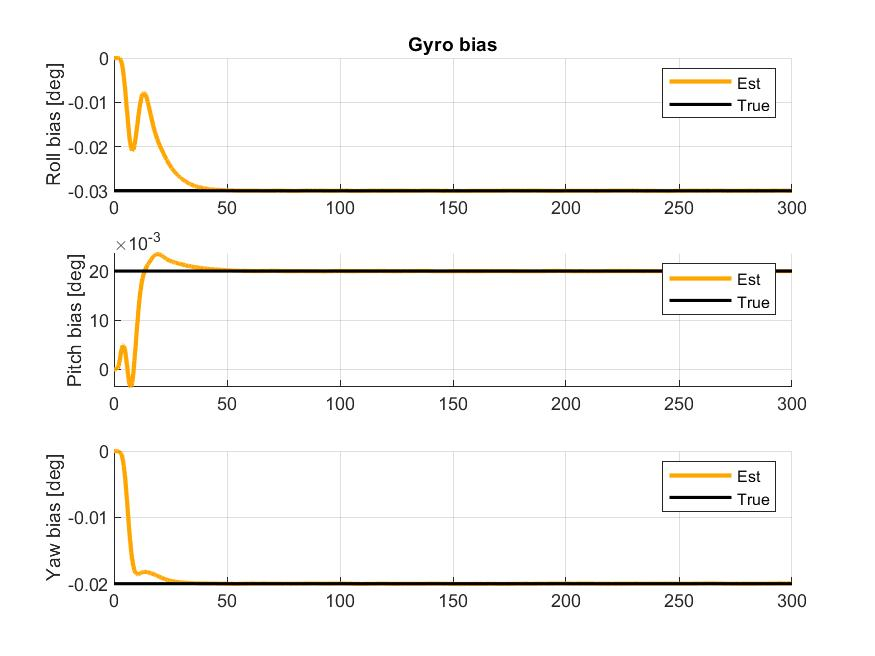
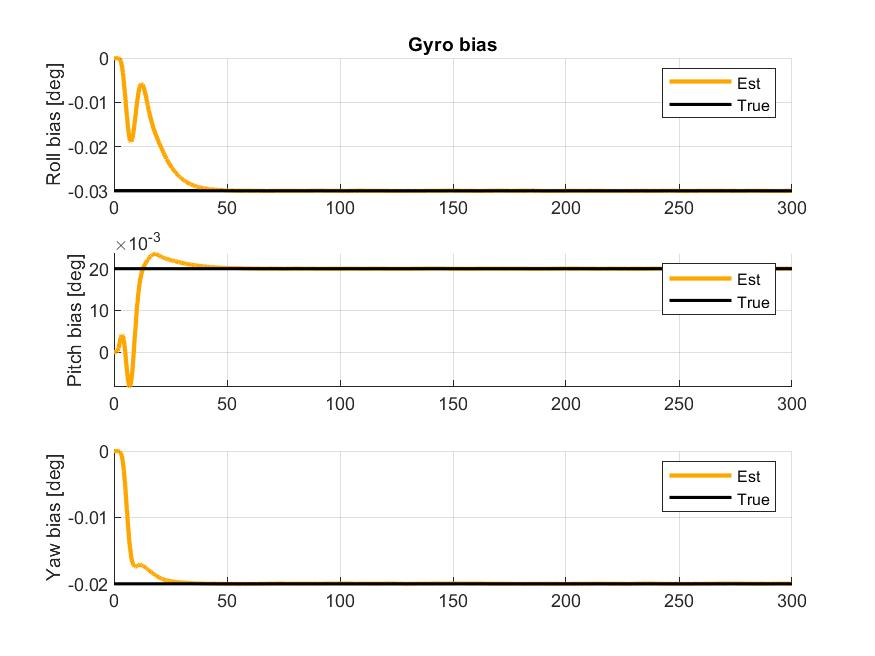
With attitude measurement the errors converge to zero quicklt. With only dual gnss all 18 states are not obeservable

diff --git a/ESKF/MESKF_sola.m b/ESKF/MESKF_sola.m
@@ -40,19 +40,26 @@ g_err_data = zeros(3,N);
 [seed, p_n_nb, v_n_nb, q_nb, bacc_b_nb, bars_b_nb, f_b_imu, omega_b_imu,time, g_n_nb, v_abs] = CircleSim(simtime,f_samp,0);
 % [p_n_nb, v_n_nb, att_n_nb, f_b_imu, w_b_imu,time] = StandStillSim(simtime,f_samp,0);
 
+% dual gnss config
+r_b_1 = [0.5 0 0]';
+r_b_2 = [-0.5 0 0.3]';
+r_b_3 = [2 2 -1]';
+
 %initialization of kalman filter
 f_b_imu_0 = [0 0 0]';
 omega_b_imu_0 = [0 0 0]';
 bacc_b_ins = [0 0 0]';
 bars_b_ins = [0 0 0]';
 E_prev = zeros(18,12);
-ErrorStateKalman_sola(E_prev,0, 0, f_low, 1, f_b_imu_0, omega_b_imu_0, g_n_nb, bacc_b_ins, bars_b_ins);
+ErrorStateKalman_sola(r_b_1,r_b_2,r_b_3,E_prev,0, 0, f_low, 1, f_b_imu_0, omega_b_imu_0, g_n_nb, bacc_b_ins, bars_b_ins);
 
 % init
 x_ins(1:3) = [5;6;7]; % for testing av ESKF
 x_ins(4:6) = [0;0;0]; % for testing av ESKF
 x_ins(10:13) = [1 0 0 0]'; % for testing av ESKF
 % x_ins(4:6) = [v_abs;0;0]; % korrekt initialisering. For testing av INS
+
+
 
 % matrices
 C_ins = [I3 Z3 Z3 Z3 Z3
@@ -107,27 +114,45 @@ for k = 1:N
    if (count >= 10)
         count = 0;
         
-        % noisy measurements
-        p_meas = p_n_nb(1:3,k) +  0.001 * wgn(3, 1, 1);
+%         % noisy measurements
+%         p_meas = p_n_nb(1:3,k) +  0.001 * wgn(3, 1, 1);
         q_meas = q_nb(1:4,k) + 0.00005 * wgn(4, 1, 1);
-
-        % delta y
-        delta_p = p_meas - p_n_ins; 
-
+% 
+%         % delta y
+%         delta_p = p_meas - p_n_ins; 
+%         
+%         delta_y = [delta_p; delta_theta];  
+% 
         q_conj = quatconj(q_n_ins')';
         delta_q = quatprod(q_conj, q_meas);
         delta_theta = 2*delta_q(2:4);
+
+
+        p_gnss_1 = p_n_nb(1:3,k) + I3*R_nb_ins*r_b_1 - Smtrx(R_nb_ins*r_b_1)*delta_theta;
+        p_gnss_2 = p_n_nb(1:3,k) + I3*R_nb_ins*r_b_2 - Smtrx(R_nb_ins*r_b_2)*delta_theta;
         
-        delta_y = [delta_p; delta_theta];         
+        R_nb_t = Rquat(q_nb(1:4,k)');
         
+        p_gnss_1 = p_n_nb(1:3,k) + R_nb_t * r_b_1;
+        p_gnss_2 = p_n_nb(1:3,k) + R_nb_t * r_b_2;
+%         p_gnss_3 = p_n_nb(1:3,k) + R_nb_t * r_b_3;
+        
+        
+        p_hat_1 = p_n_ins + R_nb_ins * r_b_1;
+        p_hat_2 = p_n_ins + R_nb_ins * r_b_2;
+%         p_hat_3 = p_n_ins + R_nb_ins * r_b_3;
+        
+        
+%         delta_y = [(p_gnss_1 - p_hat_1) ; (p_gnss_2 - p_hat_2); (p_gnss_3 - p_hat_3); delta_theta]; 
+        delta_y = [(p_gnss_1 - p_hat_1) ; (p_gnss_2 - p_hat_2); delta_theta];
         % compute error state with ESKF
-        [delta_x, E_prev] = ErrorStateKalman_sola(E_prev, delta_y, R_nb_ins, f_low, 0, f_b_imu, omega_b_imu, g_n_nb, bacc_b_ins, bars_b_ins);
+        [delta_x, E_prev] = ErrorStateKalman_sola(r_b_1, r_b_2,r_b_3, E_prev, delta_y, R_nb_ins, f_low, 0, f_b_imu, omega_b_imu, g_n_nb, bacc_b_ins, bars_b_ins);
         
         % inject error into nominal state
         x_ins(1:9) = x_ins(1:9) + delta_x(1:9);
         x_ins(14:16) = x_ins(14:16) + delta_x(13:15);
         
-        g_n_nb = g_n_nb + delta_x(16:18);
+%         g_n_nb = g_n_nb + delta_x(16:18);
         
         h_low = 1/10;
         q_delta_omega = qbuild(delta_x(10:12)/h_low, h_low);
@@ -348,7 +373,7 @@ figure(8)
 figure(gcf);
 subplot(3, 1, 1)
 hold on;
-plot(time, ssa(rad2deg*att_n_nb(1,:), 'deg') - ssa(rad2deg*ins_data(10,:),'deg') ,'Color', [0.6350, 0.0780, 0.1840], 'Linewidth', 0.5);
+plot(time, ssa(rad2deg*att_n_nb(1,:) - rad2deg*ins_data(10,:),'deg') ,'Color', [0.6350, 0.0780, 0.1840], 'Linewidth', 0.5);
 ylabel('X velocity error [m/s]')
 legend('Est');
 title('Attotide Error');
@@ -356,14 +381,14 @@ grid on;
 
 subplot(3, 1, 2)
 hold on;
-plot(time, ssa(rad2deg*att_n_nb(2,:),'deg') - ssa(rad2deg*ins_data(11,:), 'deg') ,'Color', [0.6350, 0.0780, 0.1840], 'Linewidth', 0.5);
+plot(time, ssa(rad2deg*att_n_nb(2,:) - rad2deg*ins_data(11,:), 'deg') ,'Color', [0.6350, 0.0780, 0.1840], 'Linewidth', 0.5);
 ylabel('Y velocity error [m/s]')
 legend('Est');
 grid on;
 
 subplot(3, 1, 3)
 hold on;
-plot(time, ssa(rad2deg*att_n_nb(3,:),'deg') - ssa(rad2deg*ins_data(12,:),'deg') ,'Color', [0.6350, 0.0780, 0.1840], 'Linewidth', 0.5);
+plot(time, ssa(rad2deg*att_n_nb(3,:) - rad2deg*ins_data(12,:),'deg') ,'Color', [0.6350, 0.0780, 0.1840], 'Linewidth', 0.5);
 ylabel('Z velocity error [m/s]')
 legend('Est');
 grid on;

diff --git a/ESKF/ErrorStateKalman_sola.m b/ESKF/ErrorStateKalman_sola.m
@@ -1,4 +1,4 @@
-function [delta_x, E] = ErrorStateKalman2(E_prev,delta_y, R_nb, f_low, init, f_b_imu, omega_b_imu, g_n_nb, bacc_b_ins, bars_b_ins)
+function [delta_x, E] = ErrorStateKalman_sola(r_b_1, r_b_2, r_b_3, E_prev,delta_y, R_nb_hat, f_low, init, f_b_imu, omega_b_imu, g_n_nb, bacc_b_ins, bars_b_ins)
     
     deg2rad = pi/180;   
     
@@ -13,7 +13,8 @@ function [delta_x, E] = ErrorStateKalman2(E_prev,delta_y, R_nb, f_low, init, f_b
         R_pos = std_pos^2*I3;
         std_att = 10 * deg2rad;
         R_att = std_att^2*I3;
-        R = blkdiag(R_pos, R_att);
+%         R = blkdiag(R_pos, R_pos, R_pos, R_att );
+        R = blkdiag(R_pos, R_pos, R_att );
 
         std_acc = 0.01 * sqrt(10);
         Q_acc = std_acc * std_acc * I3; 
@@ -42,28 +43,40 @@ function [delta_x, E] = ErrorStateKalman2(E_prev,delta_y, R_nb, f_low, init, f_b
 %        delta_q = 0;
        
     else
+          %R_nb_hat = eye(3); 
             
-          A = [  Z3    I3        Z3                                   Z3       Z3    Z3    % dp
-                 Z3    Z3     -R_nb    -R_nb*Smtrx(f_b_imu - bacc_b_ins)       Z3    I3    % dv
-                 Z3    Z3        Z3                                   Z3       Z3    Z3    % dbacc
-                 Z3    Z3        Z3      -Smtrx(omega_b_imu - bars_b_ins)     -I3    Z3    % dtheta ???????
-                 Z3    Z3        Z3                                   Z3       Z3    Z3    % dbars
-                 Z3    Z3        Z3                                   Z3       Z3    Z3] ; % dg
+          A = [  Z3    I3        Z3                                           Z3       Z3    Z3    % dp
+                 Z3    Z3     -R_nb_hat    -R_nb_hat*Smtrx(f_b_imu - bacc_b_ins)       Z3    I3    % dv
+                 Z3    Z3        Z3                                           Z3       Z3    Z3    % dbacc
+                 Z3    Z3        Z3             -Smtrx(omega_b_imu - bars_b_ins)      -I3    Z3    % dtheta ???????
+                 Z3    Z3        Z3                                           Z3       Z3    Z3    % dbars
+                 Z3    Z3        Z3                                           Z3       Z3    Z3] ; % dg
             
  
           E = [      Z3      Z3    Z3   Z3
-                  -R_nb      Z3    Z3   Z3    % w_acc
+                  -R_nb_hat      Z3    Z3   Z3    % w_acc
                      Z3      I3    Z3   Z3    % w_acc_bias
                      Z3      Z3   -I3   Z3    % w_ars
                      Z3      Z3    Z3   I3    % w_ars_bias
                      Z3      Z3    Z3   Z3 ]; 
 
           
-          H = [ I3 Z3 Z3 Z3 Z3 Z3
-                Z3 Z3 Z3 I3 Z3 Z3];
-          
-          % Discrete-time model
-          Ad = eye(18) + h * A;
+%           H = [ I3 Z3 Z3 Z3 Z3 Z3
+%                 Z3 Z3 Z3 I3 Z3 Z3];
+
+%          H = [ I3 Z3 Z3 -Smtrx(R_nb_hat*r_b_1) Z3 Z3
+%                I3 Z3 Z3 -Smtrx(R_nb_hat*r_b_2) Z3 Z3
+%                I3 Z3 Z3 -Smtrx(R_nb_hat*r_b_3) Z3 Z3
+%                Z3 Z3 Z3 I3 Z3 Z3];
+
+         H = [ I3 Z3 Z3 -Smtrx(R_nb_hat*r_b_1) Z3 Z3
+               I3 Z3 Z3 -Smtrx(R_nb_hat*r_b_2) Z3 Z3
+               Z3 Z3 Z3 I3 Z3 Z3];
+           
+         rank(obsv(A(1:15,1:15),H(:,1:15)));
+         
+         % Discrete-time model
+         Ad = eye(18) + h * A;
         
          % KF gain
          K = P_hat * H' / (H * P_hat * H' + R);

diff --git a/ESKF/CircleSim.m b/ESKF/CircleSim.m
@@ -50,7 +50,12 @@ omega_b_imu_data = zeros(3,N);
 p_n_nb = [0 0 0]';
 v_n_nb = [v_abs 0 0]';
 % att_n_nb = [0 0 0]';
+
+roll = deg2rad*(-5);
+pitch = deg2rad*(3);
+yaw = 0;
 q_nb = [1 0 0 0]';
+%q_nb = euler2q(roll, pitch, yaw);
 
 % Bias
 acc_bias = [-0.4 -0.5 0.3]';
